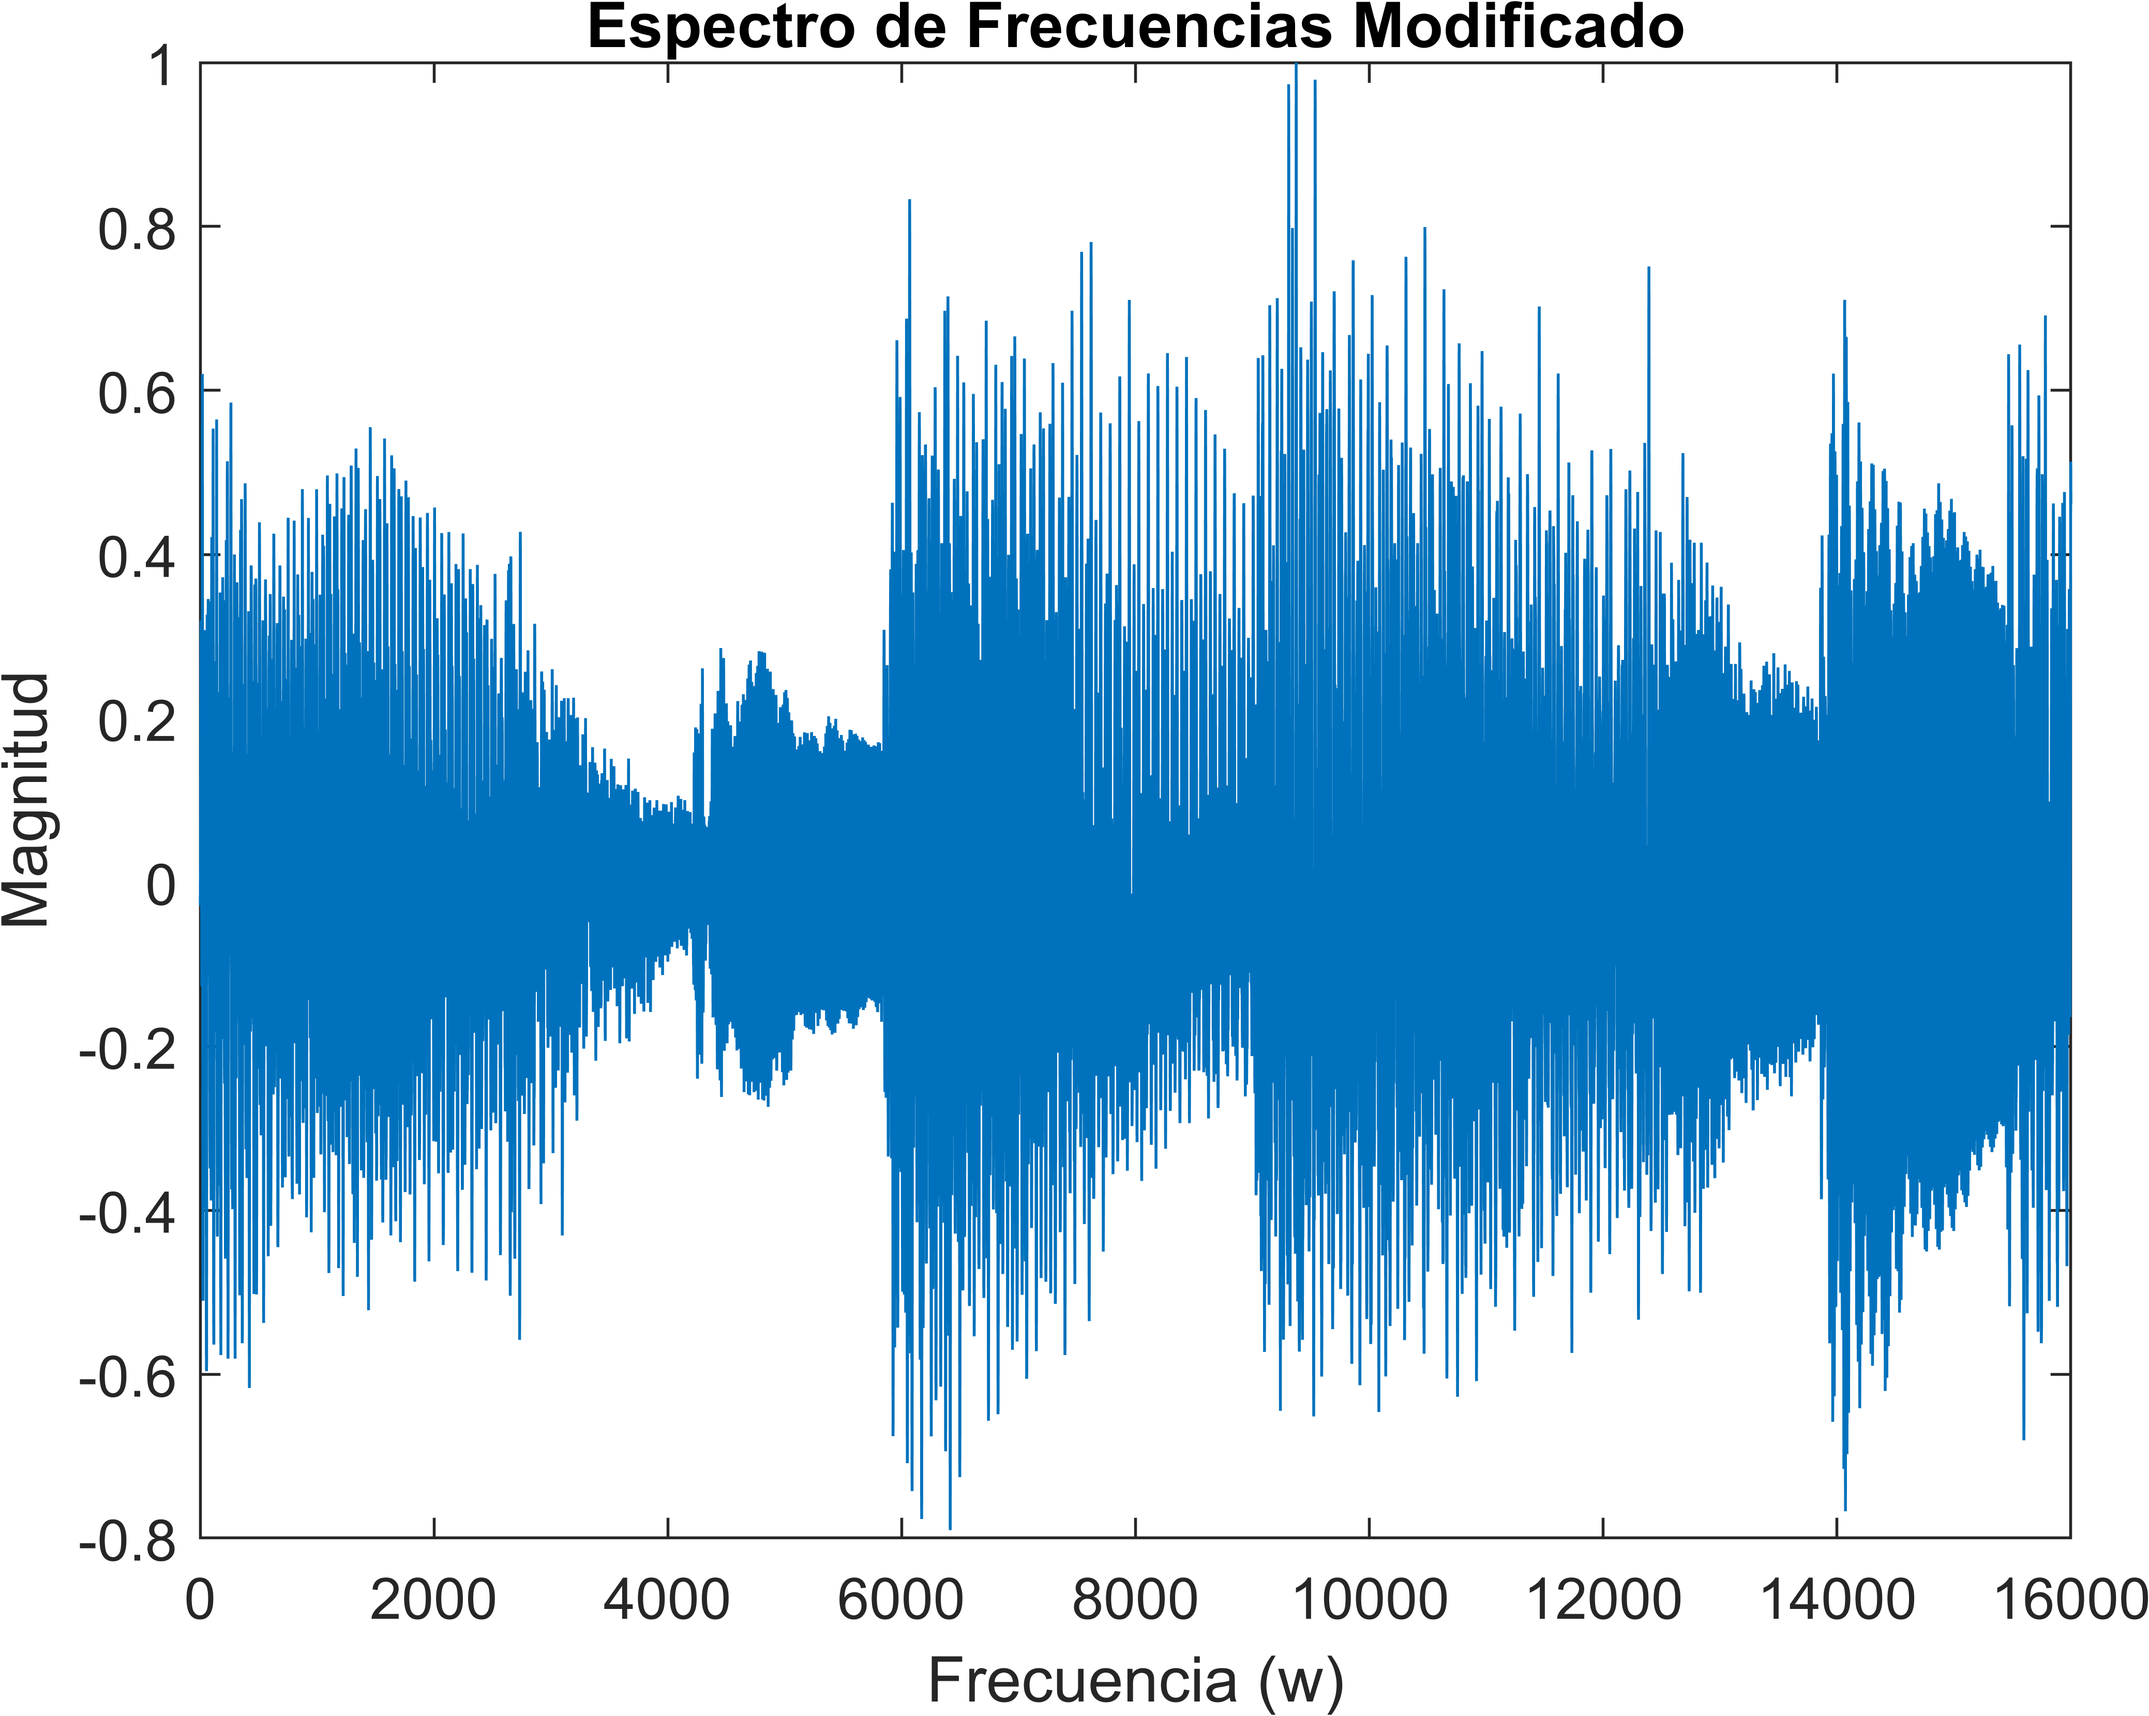
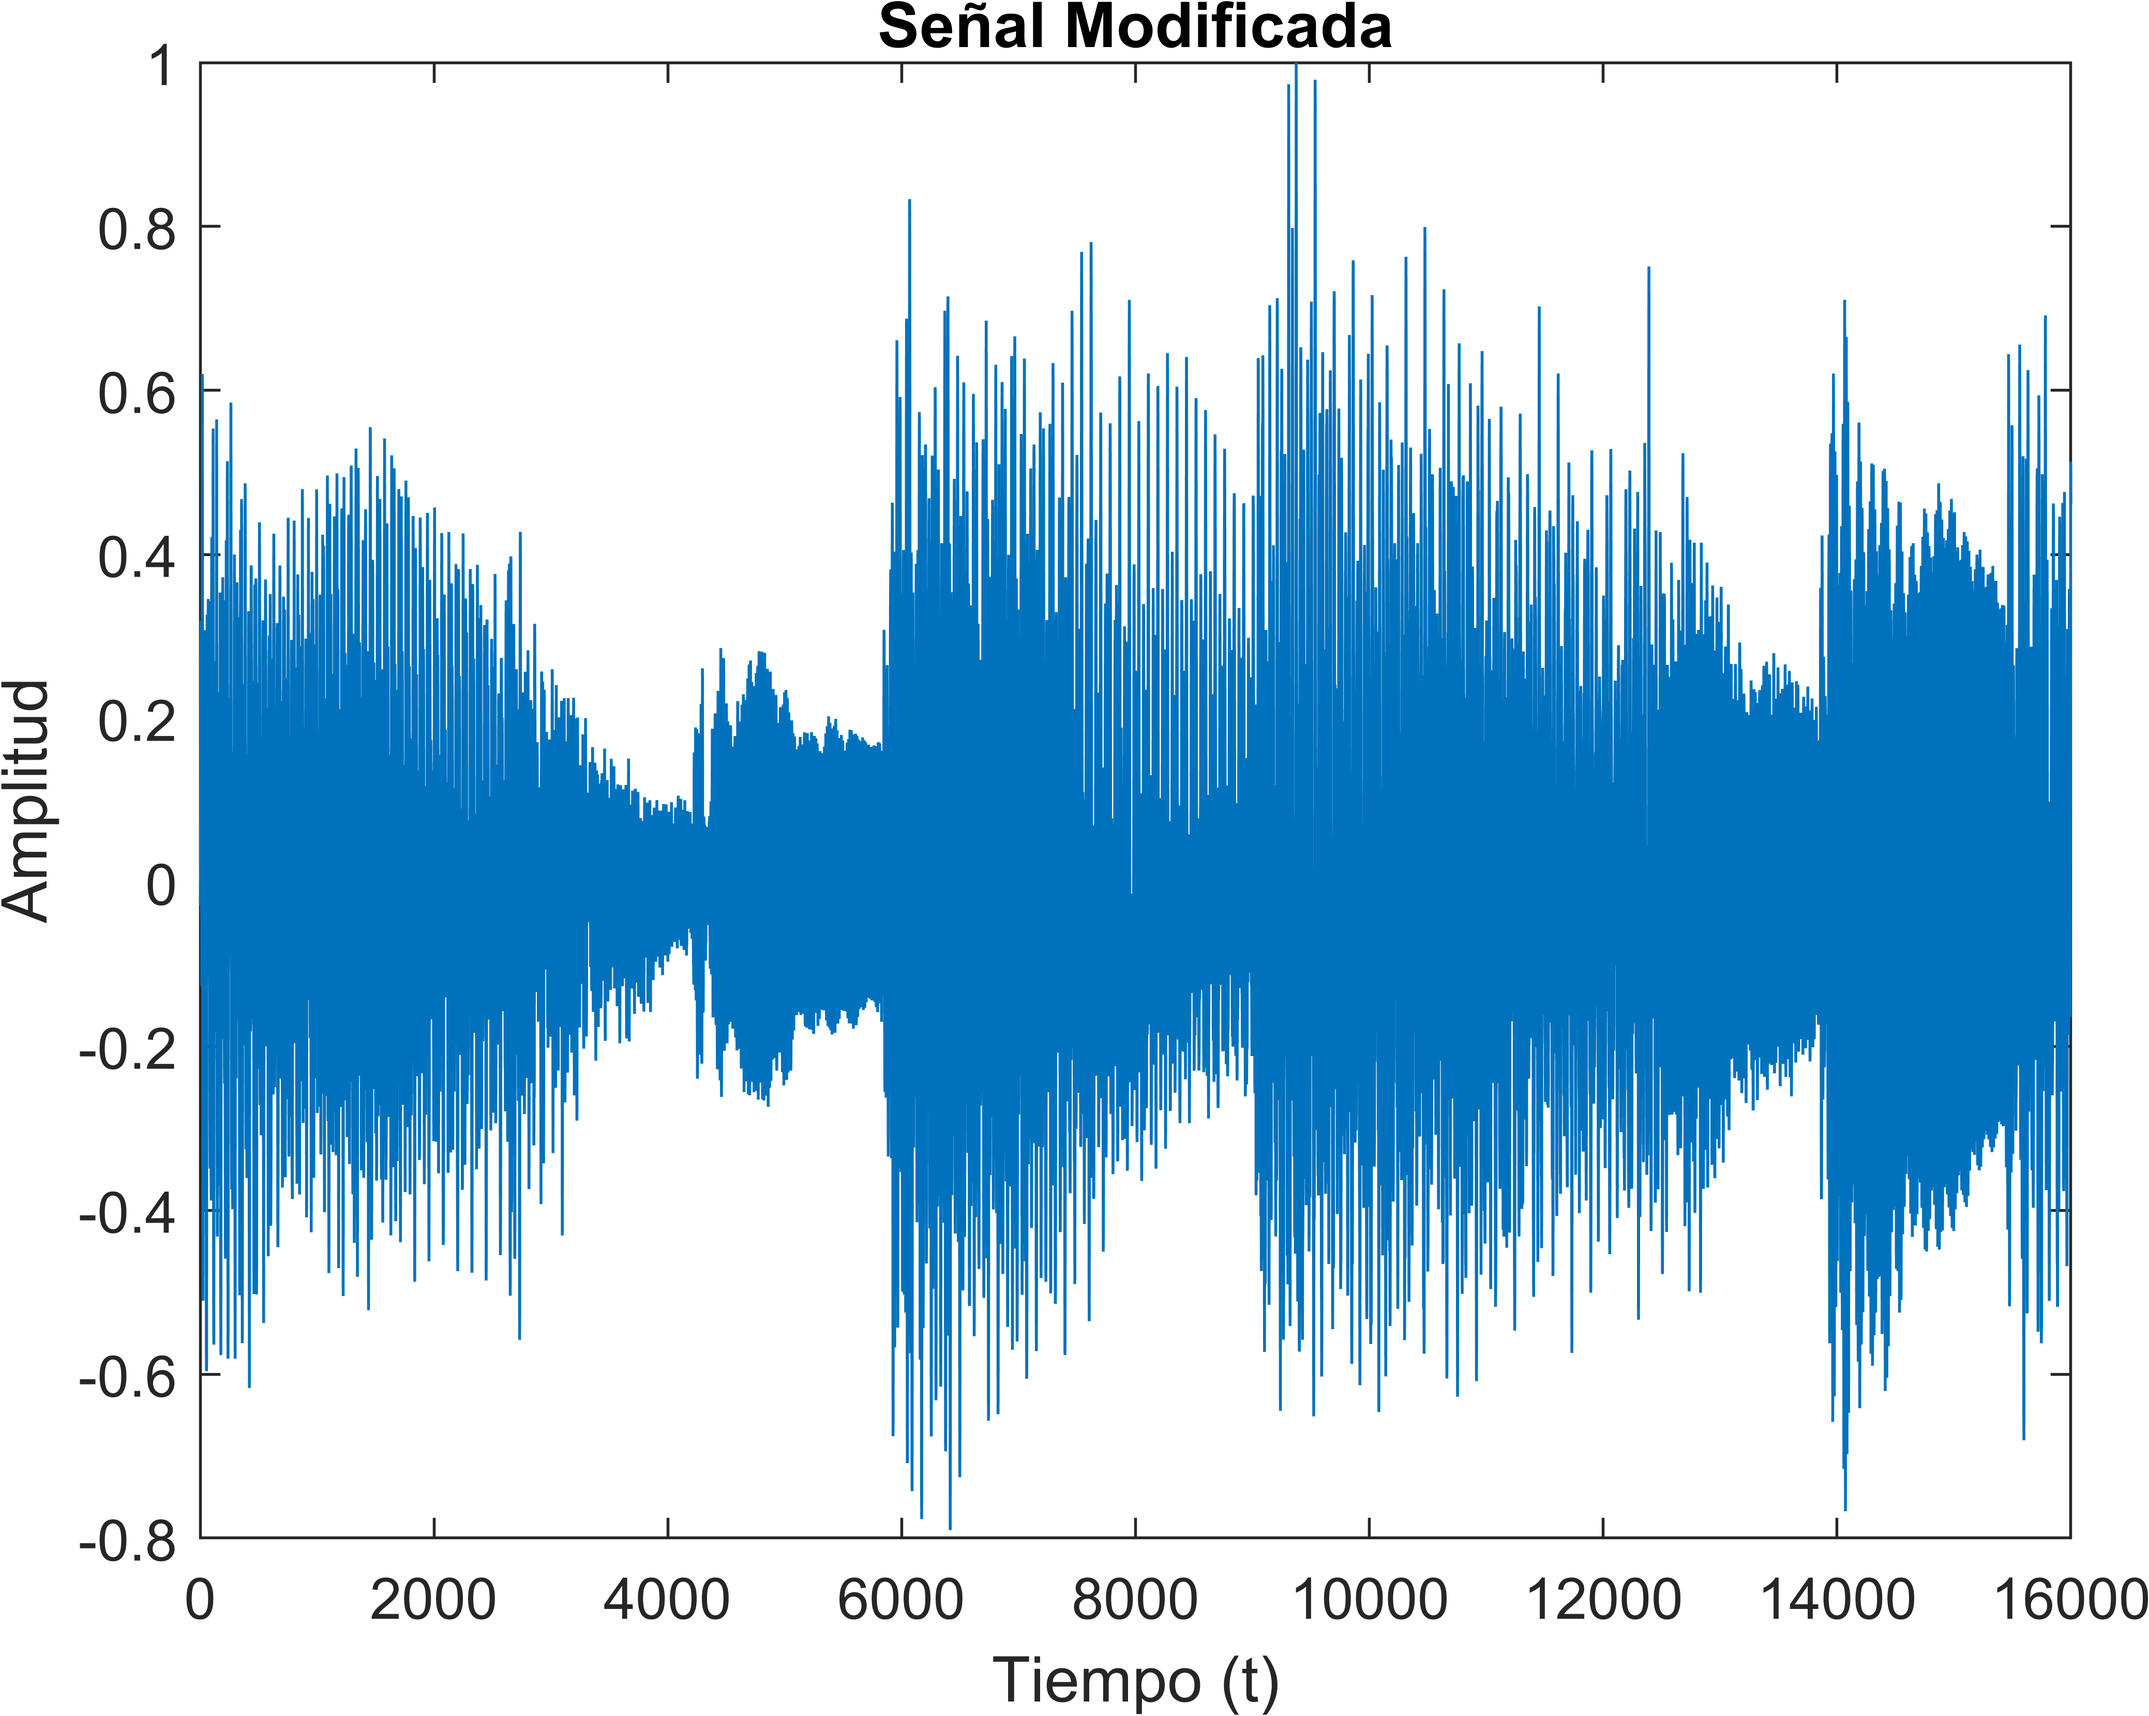
Small naming graphs fix

Changed region(s): [[0.2484, 0.0, 0.7762, 0.031], [0.4347, 0.9623, 0.6209, 1.0], [0.0, 0.3725, 0.031, 0.5588]]

diff --git a/proj_reporte.m b/proj_reporte.m
@@ -60,9 +60,9 @@ y = y./max(y); % Se normaliza la señal de salida
 
 %% Plot Señal Reconstruida
 
-% plot(y)
-% title('Espectro de Frecuencias Modificado')
-% xlabel('Frecuencia (w)')
-% ylabel('Magnitud')
-% ax = gca;
-% exportgraphics(ax,'senalmodificada.png','Resolution',800)
+plot(y)
+title('Señal Modificada')
+xlabel('Tiempo (t)')
+ylabel('Amplitud')
+ax = gca;
+exportgraphics(ax,'senalmodificada.png','Resolution',800)
